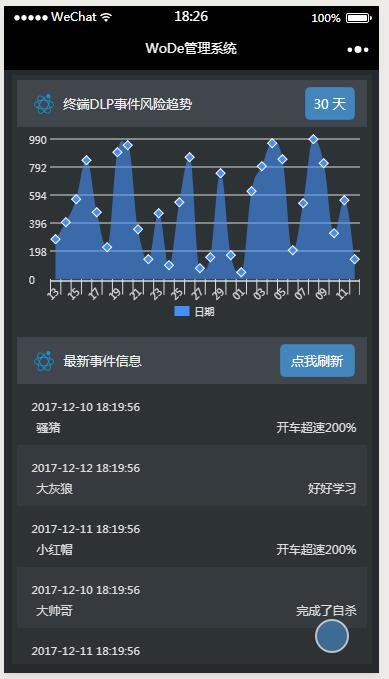
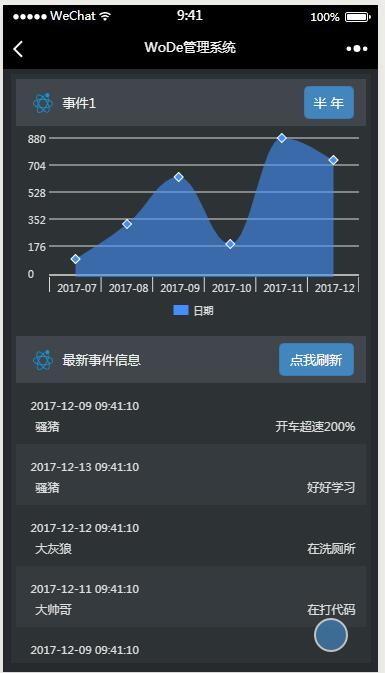
修改展示图

diff --git a/pages/index/index.js b/pages/index/index.js
@@ -6,19 +6,13 @@ Page({
     chartIndex: 0,
     chartArray: [{
       value: 1,
-      name: '终端DLP事件风险趋势'
-    }, {
-      value: 5,
-      name: '网络DLP事件风险趋势'
+      name: '事件1'
     }, {
       value: 2,
-      name: '安全基线违规事件风险趋势'
+      name: '事件2'
     }, {
       value: 3,
-      name: '非法外联违规事件风险趋势'
-    }, {
-      value: 4,
-      name: '防病毒扫描事件趋势'
+      name: '事件3'
     }],
     chartData: {},
     chartWidth: 0,
